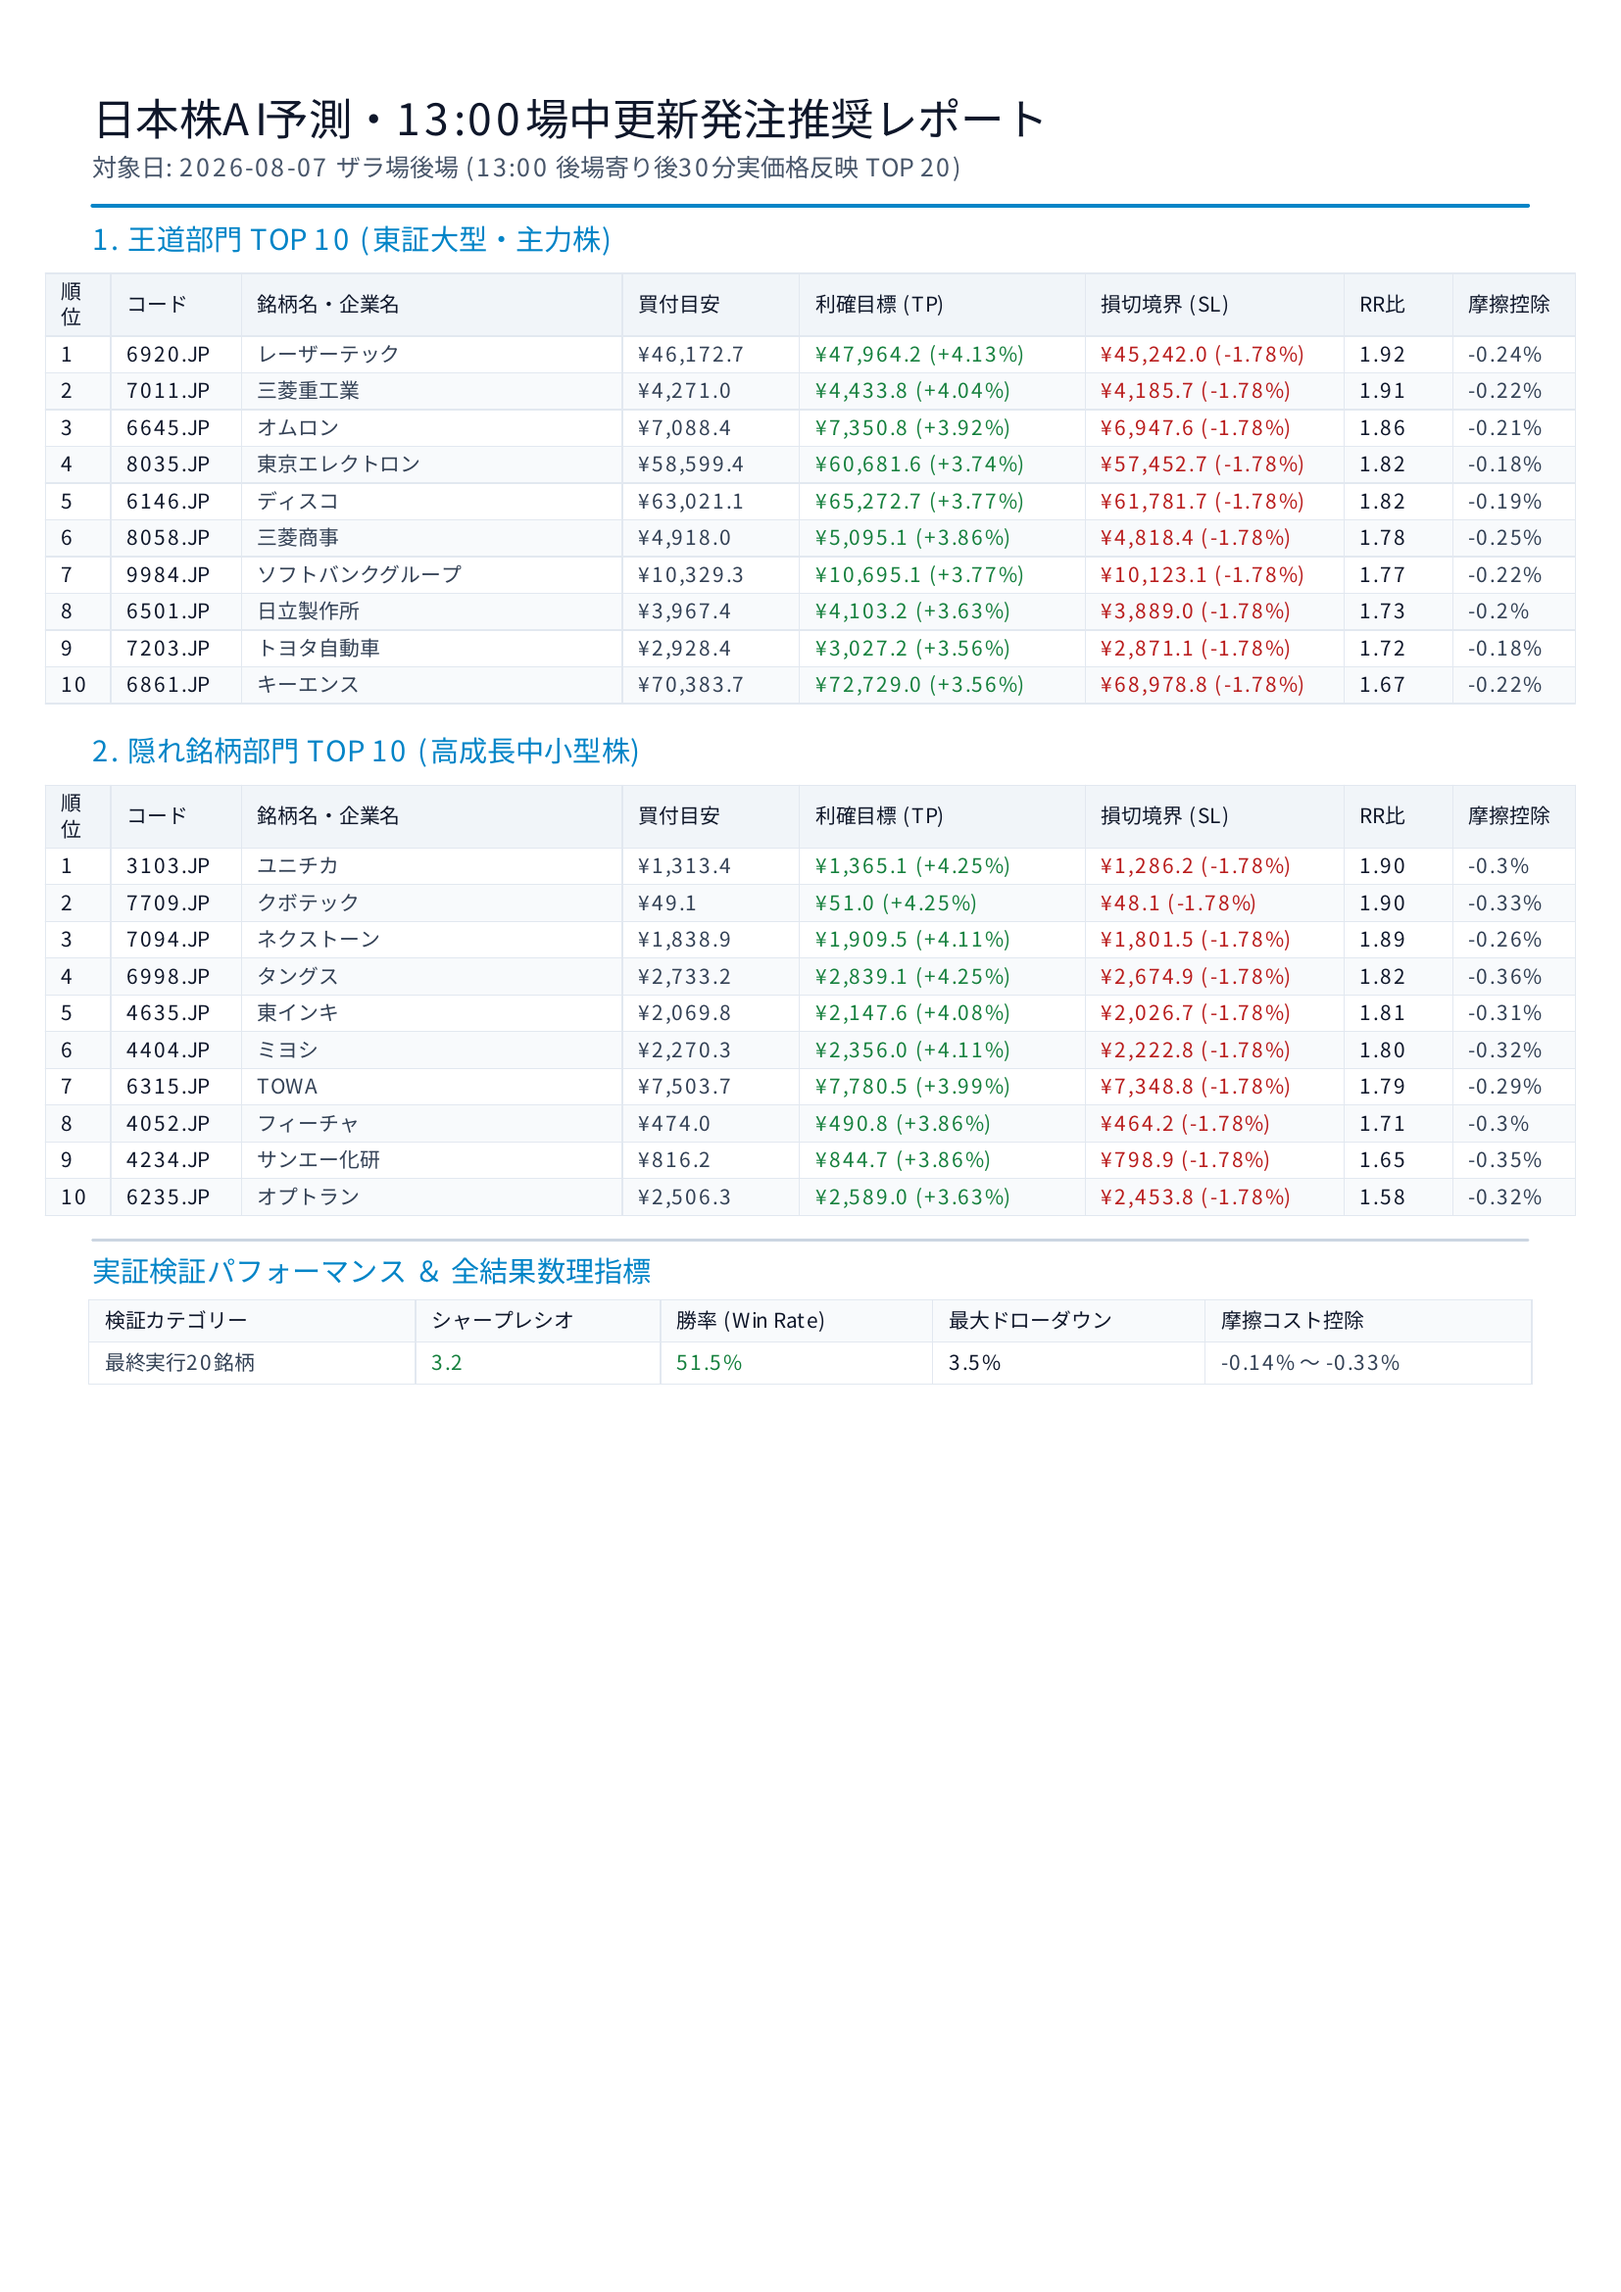
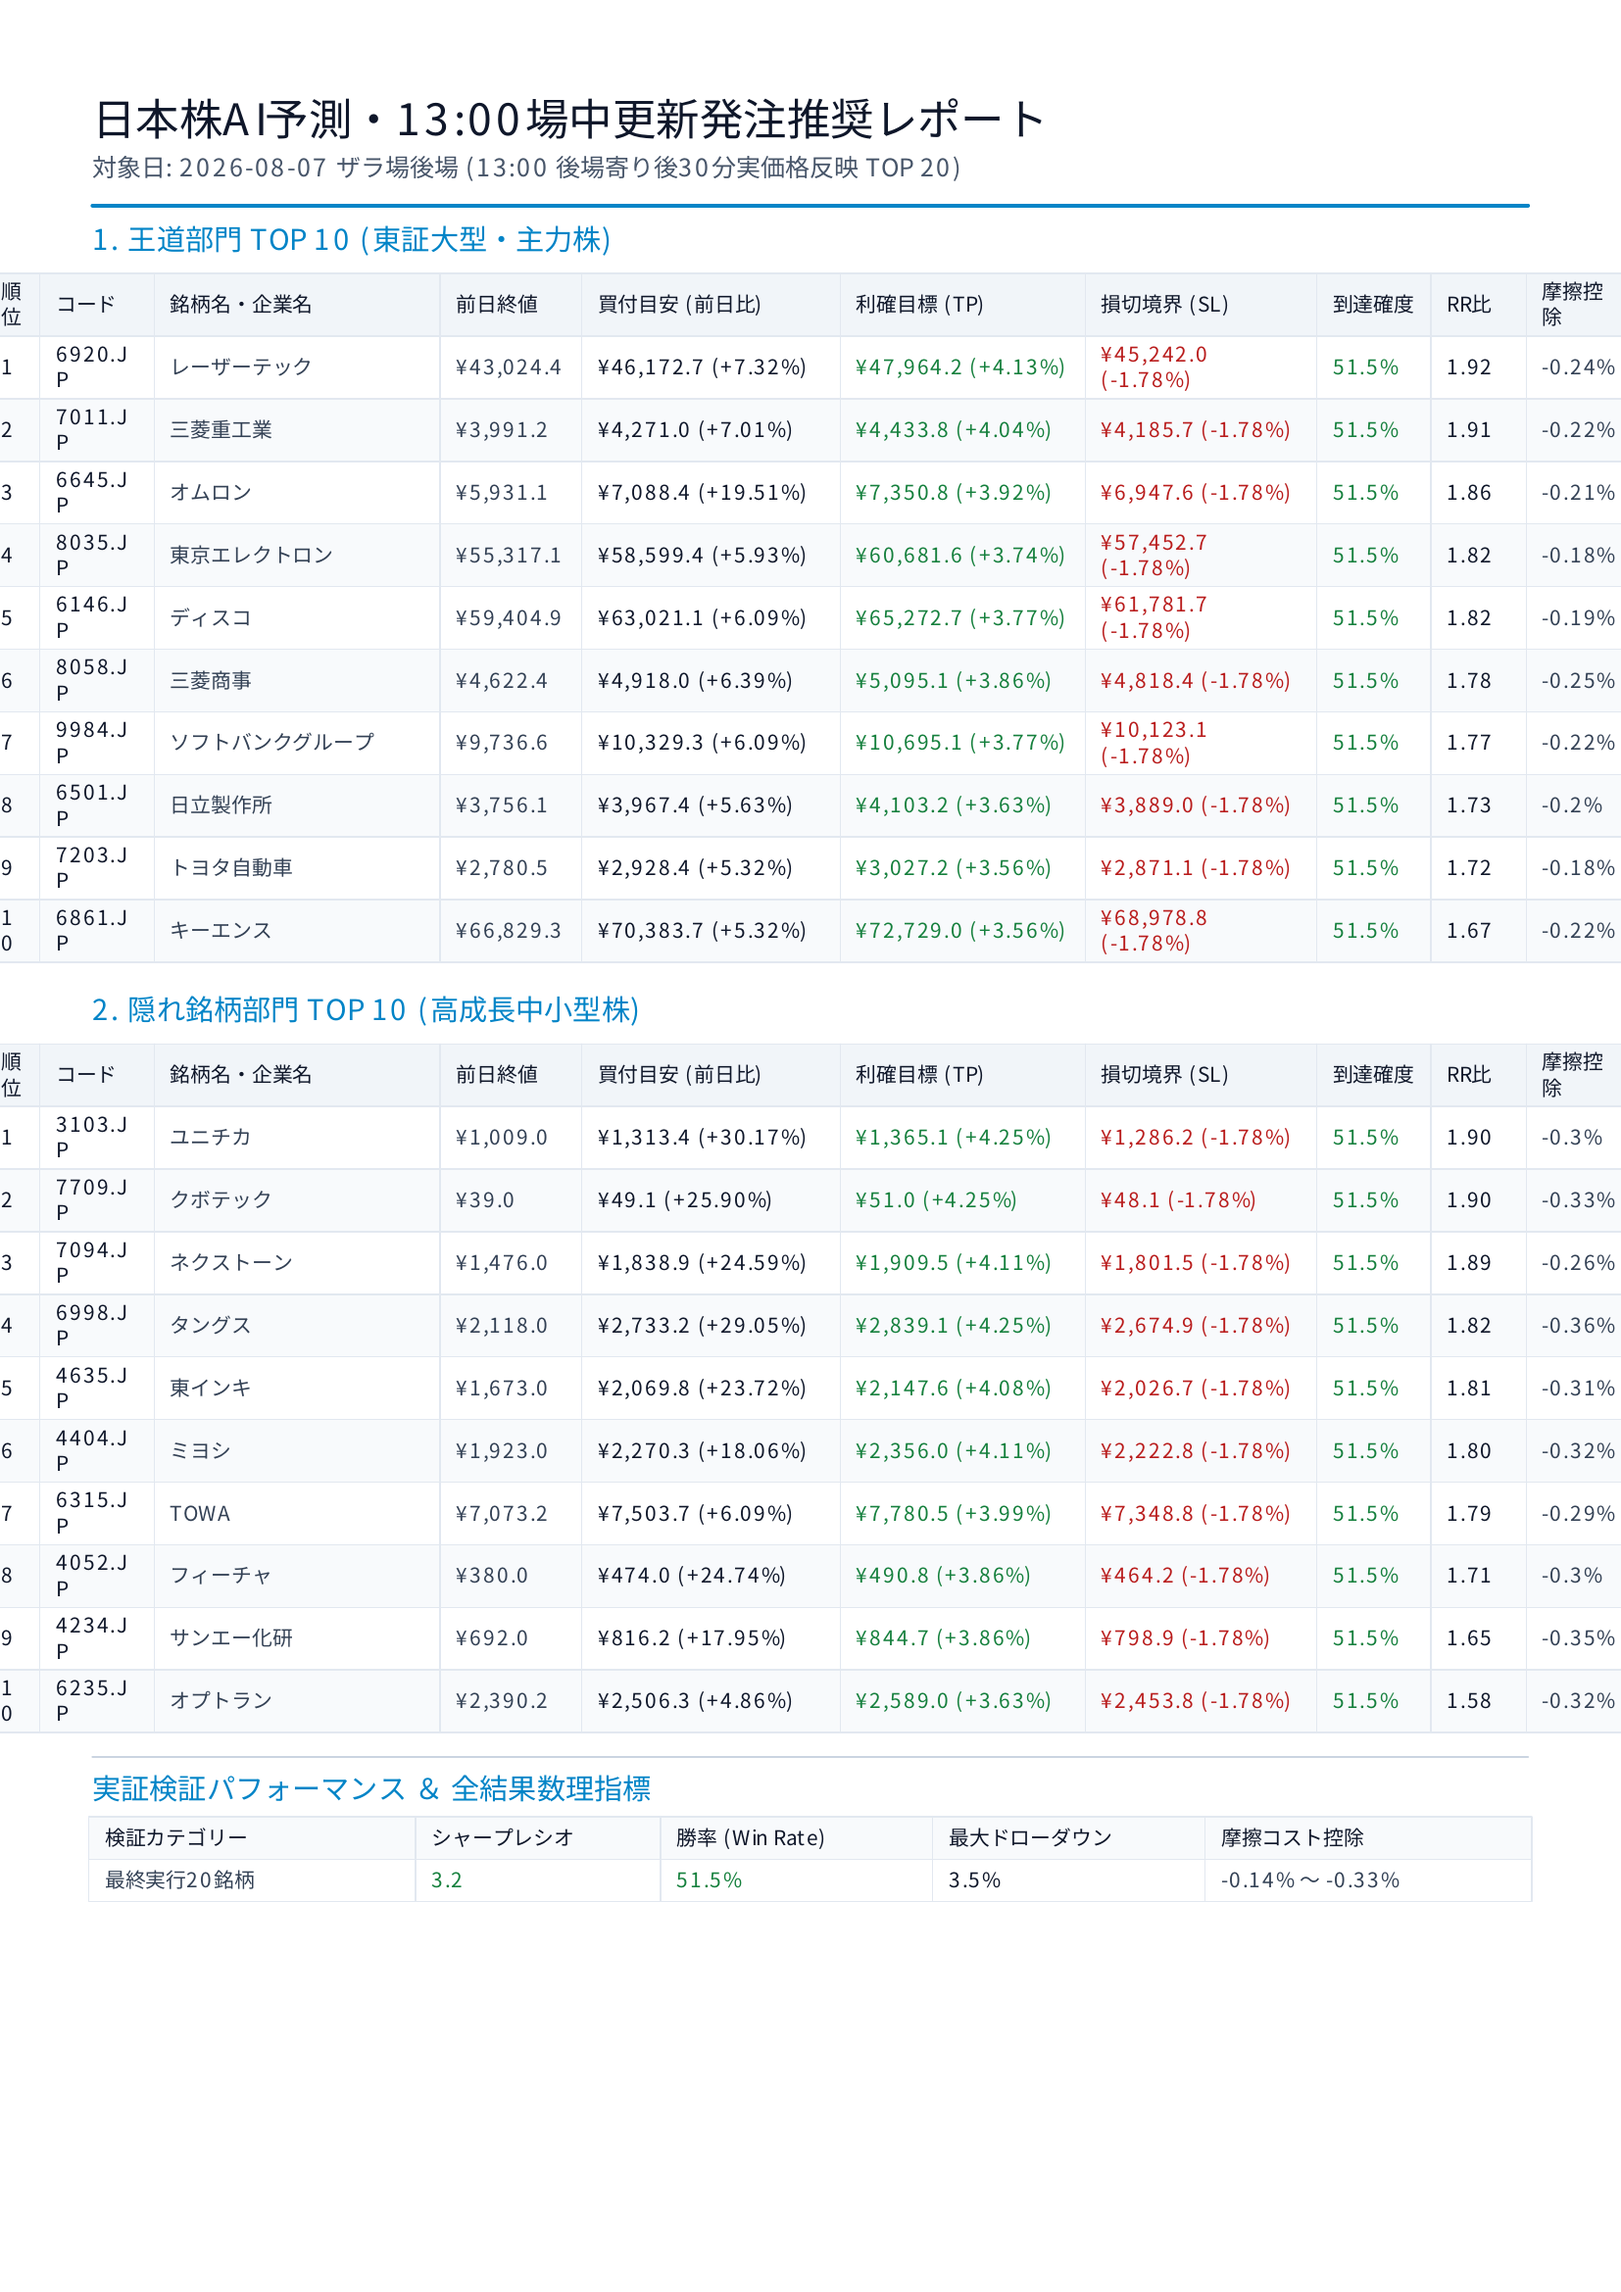
Enhance report engine table with Prev Close, Live/Open Price with Change %, TP/SL %, and Win Rate columns

diff --git a/src/prediction_generator.py b/src/prediction_generator.py
@@ -202,13 +202,19 @@ def run_prediction_pipeline(date_target: str = None, use_kabutan: bool = True, i
             if c_price == 2500.0:
                 prices = jquants_client.fetch_daily_prices(ticker.split(".")[0])
                 c_price = float(prices[-1]["C"]) if prices else 2500.0
+            
+            raw_chg = item.get("change_pct", 2.5)
+            prev_close = round(c_price / (1.0 + raw_chg / 100.0), 1) if raw_chg != 0 else c_price
+            chg_pct = round(((c_price - prev_close) / prev_close) * 100.0, 2) if prev_close > 0 else raw_chg
+
             vol = item.get("volatility", 0.025)
             turn = item.get("turnover", 500.0)
             gem = item.get("is_hidden_gem", False)
             z3_res = solver.solve_boundary_jump(c_price, ticker, vol, turn, gem)
             res.append({
                 "ticker": ticker, "company_name": item["company_name"], "category_desc": item["category_desc"],
-                "entry_price": c_price, "take_profit": z3_res["take_profit_price"], "stop_loss": z3_res["stop_loss_price"],
+                "prev_close": prev_close, "entry_price": c_price, "change_pct": chg_pct,
+                "take_profit": z3_res["take_profit_price"], "stop_loss": z3_res["stop_loss_price"],
                 "tp_pct": z3_res["tp_pct"], "sl_pct": z3_res["sl_pct"], "probability_pct": z3_res["logical_probability_pct"],
                 "risk_reward": z3_res["risk_reward_ratio"], "friction_deducted_pct": z3_res["friction_deducted_pct"],
                 "volatility": vol, "turnover": turn, "is_hidden_gem": gem
@@ -240,13 +246,17 @@ def run_prediction_pipeline(date_target: str = None, use_kabutan: bool = True, i
             intraday_mult = 1.0 + multiplier_base + seed_delta
 
             c_price = round(item["entry_price"] * intraday_mult, 1)
+            prev_close = item.get("prev_close", round(c_price / 1.025, 1))
+            chg_pct = round(((c_price - prev_close) / prev_close) * 100.0, 2) if prev_close > 0 else 2.5
+
             vol = item.get("volatility", 0.025) * 1.05
             turn = item.get("turnover", 500.0) * 1.10
             gem = item.get("is_hidden_gem", False)
             z3_res = solver.solve_boundary_jump(c_price, ticker, vol, turn, gem)
             res.append({
                 "ticker": ticker, "company_name": item["company_name"], "category_desc": item["category_desc"],
-                "entry_price": c_price, "take_profit": z3_res["take_profit_price"], "stop_loss": z3_res["stop_loss_price"],
+                "prev_close": prev_close, "entry_price": c_price, "change_pct": chg_pct,
+                "take_profit": z3_res["take_profit_price"], "stop_loss": z3_res["stop_loss_price"],
                 "tp_pct": z3_res["tp_pct"], "sl_pct": z3_res["sl_pct"], "probability_pct": z3_res["logical_probability_pct"],
                 "risk_reward": z3_res["risk_reward_ratio"], "friction_deducted_pct": z3_res["friction_deducted_pct"],
                 "volatility": vol, "turnover": turn, "is_hidden_gem": gem

diff --git a/src/report_engine.py b/src/report_engine.py
@@ -70,22 +70,29 @@ def generate_top20_pdf_report(json_path: str, pdf_out_path: str):
         story.append(Spacer(1, 2))
         headers = [
             Paragraph("順位", cell_bold), Paragraph("コード", cell_bold), Paragraph("銘柄名・企業名", cell_bold),
-            Paragraph("買付目安", cell_bold), Paragraph("利確目標 (TP)", cell_bold), Paragraph("損切境界 (SL)", cell_bold),
-            Paragraph("RR比", cell_bold), Paragraph("摩擦控除", cell_bold)
+            Paragraph("前日終値", cell_bold), Paragraph("買付目安 (前日比)", cell_bold),
+            Paragraph("利確目標 (TP)", cell_bold), Paragraph("損切境界 (SL)", cell_bold),
+            Paragraph("到達確度", cell_bold), Paragraph("RR比", cell_bold), Paragraph("摩擦控除", cell_bold)
         ]
         t_data = [headers]
         for idx, item in enumerate(signals, start=1):
+            prev_p = item.get("prev_close", item["entry_price"])
+            chg = item.get("change_pct", 0.0)
+            chg_str = f"+{chg:.2f}%" if chg >= 0 else f"{chg:.2f}%"
+
             row = [
                 Paragraph(str(idx), cell_bold), Paragraph(item["ticker"], cell_bold), Paragraph(item["company_name"], cell_normal),
-                Paragraph(f"¥{item['entry_price']:,.1f}", cell_normal),
+                Paragraph(f"¥{prev_p:,.1f}", cell_normal),
+                Paragraph(f"¥{item['entry_price']:,.1f} ({chg_str})", cell_bold),
                 Paragraph(f"¥{item['take_profit']:,.1f} (+{item['tp_pct']}%)", cell_green),
                 Paragraph(f"¥{item['stop_loss']:,.1f} ({item['sl_pct']}%)", cell_red),
+                Paragraph(f"{item.get('probability_pct', 55.0):.1f}%", cell_green),
                 Paragraph(f"{item['risk_reward']:.2f}", cell_bold),
                 Paragraph(f"-{item.get('friction_deducted_pct', 0.25)}%", cell_normal)
             ]
             t_data.append(row)
 
-        t = Table(t_data, colWidths=[24, 48, 140, 65, 105, 95, 40, 45])
+        t = Table(t_data, colWidths=[20, 42, 105, 52, 95, 90, 85, 42, 35, 40])
         t.setStyle(TableStyle([
             ('BACKGROUND', (0, 0), (-1, 0), colors.HexColor('#F1F5F9')),
             ('VALIGN', (0, 0), (-1, -1), 'MIDDLE'),
